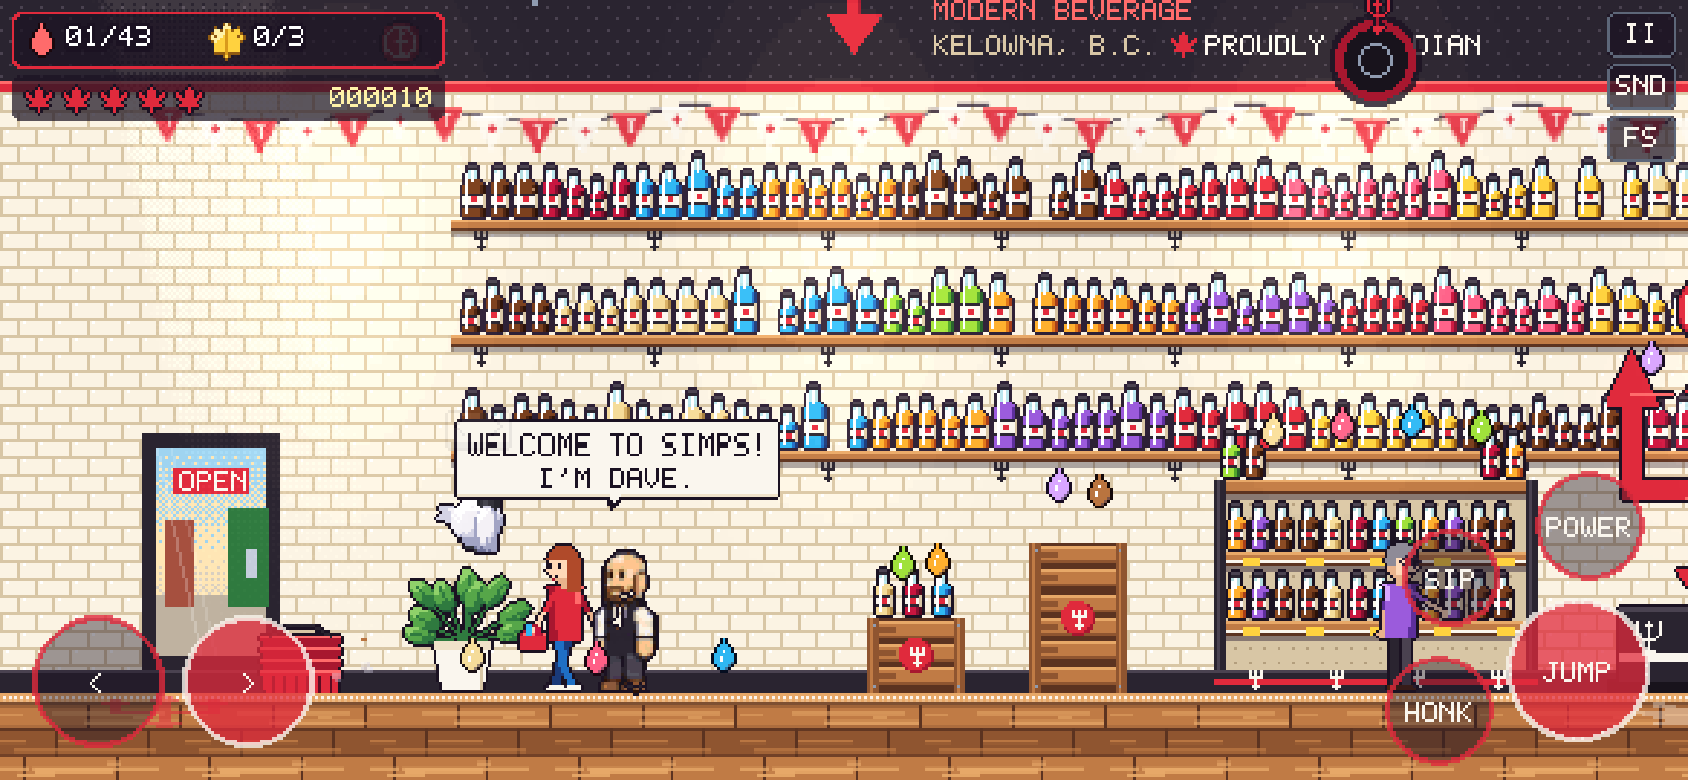
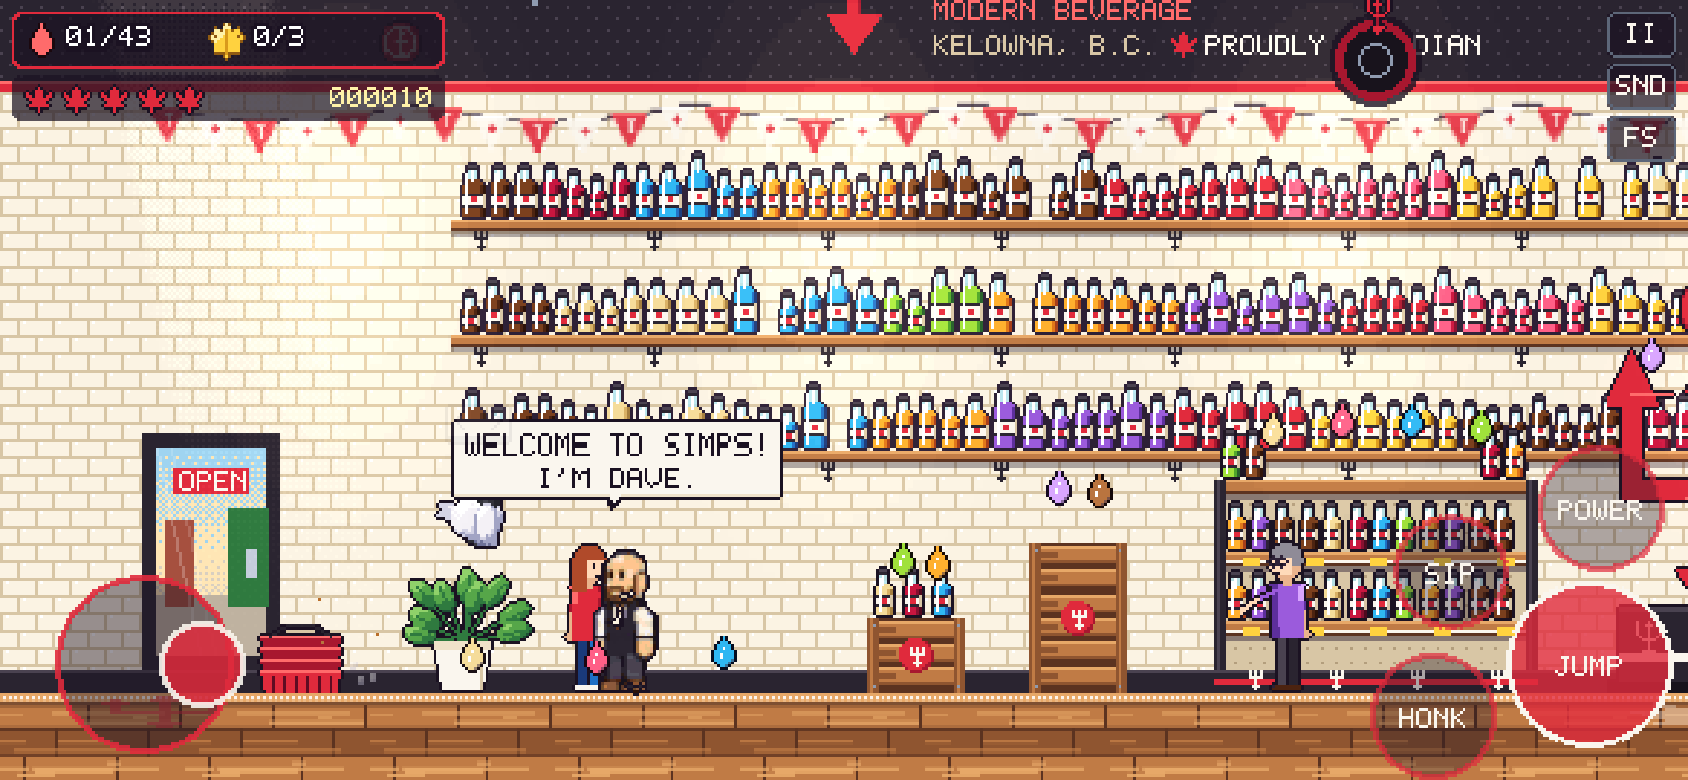
PWA (installable, full screen on iPhone from the home screen) + better phone controls
- manifest (fullscreen, landscape), icons, apple-touch-icon, offline service worker (network-first)
- iPhone 'Share > Add to Home Screen' hint, Android INSTALL button; only on real https sites
- scripts/single-file.py also builds release/pwa/ + release/goose-pwa-netlify.zip for Netlify Drop
- Controls: drag stick anywhere in the left third (left/right/up/down), bigger action buttons,
  each finger presses only the nearest button (generous reach), no iOS long-press callouts

Claude-Session: https://claude.ai/code/session_019Ne5GHyCBQvH5tGTV4PYB6

diff --git a/simps-goose/src/scenes/UIScene.ts b/simps-goose/src/scenes/UIScene.ts
@@ -29,6 +29,7 @@ export class UIScene extends Phaser.Scene {
   menu: Phaser.GameObjects.Container | null = null; menuItems: MenuItem[] = []; menuSel = 0; menuKind: 'pause' | 'end' | null = null;
   toastQ: [string, number, string?][] = []; toastBusy = false;
   touchBtns: TouchBtn[] = []; touchOn = false;
+  stickG?: Phaser.GameObjects.Graphics; stickHint?: Phaser.GameObjects.BitmapText; stick: { x: number; y: number } | null = null; stickKnob = { x: 0, y: 0 }; stickHome = { x: 50, y: 230 }; stickWas = false;
   muteBtn!: Phaser.GameObjects.BitmapText;
   dropTotal = 0; leafTotal = 3;
   ended = false;
@@ -43,7 +44,7 @@ export class UIScene extends Phaser.Scene {
   setAbilities(o: { ph: boolean; db: boolean; sb: boolean }) { [o.ph, o.db, o.sb].forEach((v, i) => { const a = this.abil[i]; if (a && a.visible !== v) { a.setVisible(v); if (v) this.pulse(a); } }); }
 
   create() {
-    this.pickerCards = []; this.touchBtns = []; this.menu = null; this.menuKind = null; this.toastQ = []; this.toastBusy = false; this.ended = false; this.hearts = []; this.bossBar = null; this.clearCard = null;
+    this.pickerCards = []; this.touchBtns = []; this.stick = null; this.stickG = undefined; this.stickHint = undefined; this.menu = null; this.menuKind = null; this.toastQ = []; this.toastBusy = false; this.ended = false; this.hearts = []; this.bossBar = null; this.clearCard = null;
     this.input.addPointer(4);
     this.buildHud();
     this.buildPicker();
@@ -322,7 +323,7 @@ export class UIScene extends Phaser.Scene {
     this.ended = true;
     this.picker.setVisible(false);
     this.tweens.add({ targets: [this.hud], alpha: 0, duration: 400 });
-    this.touchBtns.forEach((b) => b.g?.setVisible(false));
+    this.touchBtns.forEach((b) => b.g?.setVisible(false)); this.stickG?.setVisible(false); this.stickHint?.setVisible(false);
     // classic freeze-frame arrow banner
     const c = this.add.container(-260, 214).setDepth(25);
     const g = this.add.graphics();
@@ -343,8 +344,11 @@ export class UIScene extends Phaser.Scene {
 
   // ------------------------------------------------------------ touch
   buildTouch() {
-    const defs: [Action, string, number][] = [['left', '<', 22], ['right', '>', 22], ['jump', 'JUMP', 24], ['honk', 'HONK', 18], ['ability', 'POWER', 18], ['interact', 'SIP', 16]];
+    // right thumb: action buttons (bigger + more forgiving than before). left thumb: a drag stick.
+    const defs: [Action, string, number][] = [['jump', 'JUMP', 28], ['honk', 'HONK', 21], ['ability', 'POWER', 21], ['interact', 'SIP', 19]];
     for (const [a, label, r] of defs) this.touchBtns.push({ a, label, r, x: 0, y: 0, down: false });
+    this.stickG = this.add.graphics().setDepth(5);
+    this.stickHint = txt(this, 0, 0, '< >', { align: 'center', outline: false, color: C.wht }).setDepth(6).setAlpha(0.6);
     this.layoutTouch();
   }
   /** Pin the HUD to the screen edges (wide phones): left block left, right block right. */
@@ -355,41 +359,74 @@ export class UIScene extends Phaser.Scene {
   }
   layoutTouch() {
     if (!this.touchOn) return;
-    const pos: Record<string, [number, number]> = { left: [34, 236], right: [86, 236], jump: [442, 232], honk: [394, 246], ability: [446, 182], interact: [398, 200] };
-    const ox = VIEW.ox; // wide screens: d-pad hugs the left edge, action buttons the right edge
+    const pos: Record<string, [number, number]> = { jump: [446, 230], honk: [392, 248], ability: [450, 176], interact: [398, 198] };
+    const ox = VIEW.ox; // wide screens: stick hugs the left edge, action buttons the right edge
     for (const b of this.touchBtns) {
       [b.x, b.y] = pos[b.a];
-      b.x += b.a === 'left' || b.a === 'right' ? -ox : ox;
-      b.g?.destroy();
+      b.x += ox;
+      b.g?.destroy(); (b.g?.getData('t') as Phaser.GameObjects.BitmapText | undefined)?.destroy();
       b.g = this.add.graphics().setDepth(5);
       const t = txt(this, b.x, b.y - 4, b.label, { align: 'center', outline: false, color: C.wht });
-      t.setDepth(6).setAlpha(0.85);
+      t.setDepth(6).setAlpha(0.9);
       b.g.setData('t', t);
     }
+    this.stickHome = { x: 50 - ox, y: 230 };
     this.drawTouch();
   }
   drawTouch() {
     for (const b of this.touchBtns) {
       if (!b.g) continue;
-      b.g.clear().fillStyle(b.down ? C.red1 : C.ink, b.down ? 0.75 : 0.42).fillCircle(b.x, b.y, b.r).lineStyle(2, b.down ? C.wht : C.red1, 0.8).strokeCircle(b.x, b.y, b.r);
+      b.g.clear().fillStyle(b.down ? C.red1 : C.ink, b.down ? 0.8 : 0.35).fillCircle(b.x, b.y, b.r).lineStyle(2, b.down ? C.wht : C.red1, b.down ? 1 : 0.7).strokeCircle(b.x, b.y, b.r);
     }
+    // the stick: a base ring where the thumb landed (or its resting spot) + a knob that follows the drag
+    const g = this.stickG; if (!g) return;
+    const base = this.stick ?? this.stickHome;
+    const k = this.stick ? this.stickKnob : base;
+    g.clear().fillStyle(C.ink, this.stick ? 0.45 : 0.3).fillCircle(base.x, base.y, 30).lineStyle(2, C.red1, this.stick ? 0.9 : 0.55).strokeCircle(base.x, base.y, 30);
+    g.fillStyle(this.stick ? C.red1 : C.ink, this.stick ? 0.85 : 0.5).fillCircle(k.x, k.y, 14).lineStyle(2, C.wht, this.stick ? 0.9 : 0.4).strokeCircle(k.x, k.y, 14);
+    this.stickHint?.setPosition(base.x, base.y - 4).setVisible(!this.stick);
   }
   updateTouch() {
     if (!this.touchOn || this.ended) return;
     const dom = portraitPad();
     this.touchBtns.forEach((b) => { b.g?.setVisible(!dom); (b.g?.getData('t') as Phaser.GameObjects.BitmapText | undefined)?.setVisible(!dom); });
+    this.stickG?.setVisible(!dom); this.stickHint?.setVisible(!dom && !this.stick);
     if (dom) return;
-    const ptrs = this.input.manager.pointers.filter((p) => p.isDown);
-    let changed = false;
+    const cam = this.cameras.main;
     const blocking = !!this.menu || this.picker.visible;
+    const ptrs = blocking ? [] : this.input.manager.pointers.filter((p) => p.isDown);
+    // the left third of the screen (below the HUD) is the stick zone: put a thumb anywhere there and drag
+    const zoneR = 170 - VIEW.ox * 0.2;
+    let stickP: Phaser.Input.Pointer | null = null;
+    for (const p of ptrs) { const d = cam.getWorldPoint(p.downX, p.downY); if (d.x < zoneR && d.y > 64) { stickP = p; break; } }
+    let L = false, R = false, U = false, D = false;
+    if (stickP) {
+      const o = cam.getWorldPoint(stickP.downX, stickP.downY), c = cam.getWorldPoint(stickP.x, stickP.y);
+      const dx = c.x - o.x, dy = c.y - o.y, dist = Math.hypot(dx, dy), m = Math.min(dist, 20) / (dist || 1);
+      this.stick = { x: o.x, y: o.y }; this.stickKnob = { x: o.x + dx * m, y: o.y + dy * m };
+      L = dx < -6; R = dx > 6;
+      U = dy < -16 && Math.abs(dy) > Math.abs(dx) * 0.7; D = dy > 16 && Math.abs(dy) > Math.abs(dx) * 0.7;
+    } else this.stick = null;
+    Controls.setTouch('left', L); Controls.setTouch('right', R); Controls.setTouch('up', U); Controls.setTouch('down', D);
+    // buttons: each finger presses only the NEAREST button within reach (generous margin, no double-presses)
+    const pressed = new Set<TouchBtn>();
+    for (const p of ptrs) {
+      if (p === stickP) continue;
+      const w = cam.getWorldPoint(p.x, p.y);
+      let best: TouchBtn | null = null, bd = 1e9;
+      for (const b of this.touchBtns) { const d = Math.hypot(w.x - b.x, w.y - b.y) - b.r; if (d < 12 && d < bd) { bd = d; best = b; } }
+      if (best) pressed.add(best);
+    }
+    let changed = !!stickP !== this.stickWas; this.stickWas = !!stickP;
     for (const b of this.touchBtns) {
-      const down = !blocking && ptrs.some((p) => { const w = this.cameras.main.getWorldPoint(p.x, p.y); return Math.hypot(w.x - b.x, w.y - b.y) < b.r + 6; });
+      const down = pressed.has(b);
       if (down !== b.down) { b.down = down; changed = true; }
       Controls.setTouch(b.a, down);
       if (b.a === 'interact') Controls.setTouch('confirm', down);
     }
-    if (changed) this.drawTouch();
+    if (changed || stickP) this.drawTouch();
   }
+
 
   update() {
     this.updateTouch();

diff --git a/simps-goose/src/systems/pwa.ts b/simps-goose/src/systems/pwa.ts
@@ -1,0 +1,50 @@
+/**
+ * Installable app (PWA): offline service worker + an install hint.
+ *  - iPhone/iPad Safari: a small banner "Share → Add to Home Screen" (that's the only way iOS gives a
+ *    web game true full screen). Dismissable; never shown once running from the home screen.
+ *  - Android/Chrome: an INSTALL button using the browser's own install prompt.
+ * Only on a real website (https, top-level) — never inside the Claude artifact viewer or the dev server.
+ */
+const ss = (k: string) => { try { return localStorage.getItem(k); } catch { return null; } };
+const set = (k: string, v: string) => { try { localStorage.setItem(k, v); } catch { /* private mode */ } };
+
+export const isInstalled = () => (navigator as Navigator & { standalone?: boolean }).standalone === true
+  || matchMedia('(display-mode: standalone)').matches || matchMedia('(display-mode: fullscreen)').matches;
+
+export function installPwa() {
+  const topLevel = (() => { try { return window.top === window; } catch { return false; } })();
+  const force = new URLSearchParams(location.search).has('pwa'); // test switch for local servers
+  if (!topLevel || (location.protocol !== 'https:' && !force)) return;
+  if ('serviceWorker' in navigator) navigator.serviceWorker.register('./sw.js').catch(() => undefined);
+  if (isInstalled() || ss('goose-install-hint') === 'off') return;
+
+  const css = document.createElement('style');
+  css.textContent = `#install { position: fixed; z-index: 60; left: 50%; bottom: max(10px, env(safe-area-inset-bottom)); transform: translateX(-50%);
+    display: flex; align-items: center; gap: 10px; max-width: calc(100vw - 24px); box-sizing: border-box; padding: 9px 12px; border-radius: 14px;
+    background: rgba(24,19,28,0.95); border: 2px solid #e02a3c; color: #fff; font: bold 13px monospace; }
+    #install button { font: bold 13px monospace; color: #fff; background: #e02a3c; border: 0; border-radius: 10px; padding: 7px 11px; }
+    #install .x { background: transparent; color: #aaa; padding: 4px 6px; }
+    #install svg { flex: none; }`;
+  document.head.appendChild(css);
+  const bar = document.createElement('div'); bar.id = 'install';
+  const close = () => { bar.remove(); set('goose-install-hint', 'off'); };
+  const addX = () => { const x = document.createElement('button'); x.className = 'x'; x.textContent = '✕'; x.setAttribute('aria-label', 'Close'); x.onclick = close; bar.appendChild(x); };
+  const ios = /iP(hone|od|ad)/.test(navigator.userAgent) || (navigator.platform === 'MacIntel' && navigator.maxTouchPoints > 1);
+  if (ios) {
+    // the iOS "share" glyph: a box with an arrow up
+    bar.innerHTML = `<svg width="18" height="22" viewBox="0 0 18 22" fill="none" stroke="#fff" stroke-width="2"><path d="M9 14V2M4 6l5-5 5 5"/><path d="M6 9H2v12h14V9h-4"/></svg>
+      <span>FULL SCREEN: TAP SHARE, THEN <b>ADD TO HOME SCREEN</b></span>`;
+  } else {
+    let prompt: (Event & { prompt: () => void }) | null = null;
+    window.addEventListener('beforeinstallprompt', (e) => {
+      e.preventDefault(); prompt = e as Event & { prompt: () => void };
+      bar.innerHTML = '<span>PLAY FULL SCREEN AS AN APP</span>';
+      const b = document.createElement('button'); b.textContent = 'INSTALL'; b.onclick = () => { prompt?.prompt(); close(); };
+      bar.appendChild(b); addX(); document.body.appendChild(bar);
+    });
+    return;
+  }
+  addX();
+  document.body.appendChild(bar);
+  setTimeout(() => bar.remove(), 20000); // out of the way once play starts
+}

diff --git a/simps-goose/index.html b/simps-goose/index.html
@@ -8,9 +8,12 @@
   <meta name="mobile-web-app-capable" content="yes" />
   <meta name="apple-mobile-web-app-status-bar-style" content="black-translucent" />
   <meta name="apple-mobile-web-app-title" content="Goose!" />
+  <link rel="manifest" href="manifest.webmanifest" />
+  <link rel="apple-touch-icon" href="apple-touch-icon.png" />
+  <link rel="icon" type="image/png" href="icon-192.png" />
   <title>SIMPS: Goose on the Loose!</title>
   <style>
-    html, body { margin: 0; height: 100%; background: #18131c; overflow: hidden; touch-action: none; -webkit-user-select: none; user-select: none; }
+    html, body { margin: 0; height: 100%; background: #18131c; overflow: hidden; touch-action: none; -webkit-user-select: none; user-select: none; -webkit-touch-callout: none; -webkit-tap-highlight-color: transparent; overscroll-behavior: none; }
     #game { position: fixed; inset: env(safe-area-inset-top) env(safe-area-inset-right) env(safe-area-inset-bottom) env(safe-area-inset-left); }
     canvas { image-rendering: pixelated; image-rendering: crisp-edges; }
     #pad { display: none; }

diff --git a/simps-goose/src/main.ts b/simps-goose/src/main.ts
@@ -1,6 +1,7 @@
 import Phaser from 'phaser';
 import { installTouchpad } from './systems/touchpad';
 import { installView, desiredWidth } from './systems/view';
+import { installPwa } from './systems/pwa';
 import { LevelScene } from './levels/LevelScene';
 import { setFullscreenNotifier } from './systems/fullscreen';
 import { BootScene, InputScene } from './scenes/BootScene';
@@ -38,6 +39,7 @@ const game = new Phaser.Game({
 });
 (window as unknown as { __SIMPS: Record<string, unknown> }).__SIMPS.game = game;
 game.events.once('ready', () => installView(game, touchDevice, (s) => s instanceof LevelScene));
+installPwa();
 installTouchpad(() => game.registry.get('touch') === true || ('ontouchstart' in window || navigator.maxTouchPoints > 0));
 for (const ev of ['fullscreenchange', 'webkitfullscreenchange']) document.addEventListener(ev, () => { setTimeout(() => game.scale.refresh(), 60); game.events.emit('fullscreen:change'); });
 setFullscreenNotifier((m, sub) => game.events.emit('hud:toast', m, 0xffc94a, sub));

diff --git a/simps-goose/public/sw.js b/simps-goose/public/sw.js
@@ -1,0 +1,10 @@
+// Offline cache for the installed app: the whole game is one HTML file, so cache it + the icons.
+const CACHE = 'goose-v1';
+const FILES = ['./', './index.html', './manifest.webmanifest', './icon-192.png', './icon-512.png', './apple-touch-icon.png'];
+self.addEventListener('install', (e) => { e.waitUntil(caches.open(CACHE).then((c) => c.addAll(FILES)).catch(() => {})); self.skipWaiting(); });
+self.addEventListener('activate', (e) => { e.waitUntil(caches.keys().then((ks) => Promise.all(ks.filter((k) => k !== CACHE).map((k) => caches.delete(k))))); self.clients.claim(); });
+// network first (so an updated game shows up), cache when offline
+self.addEventListener('fetch', (e) => {
+  if (e.request.method !== 'GET' || new URL(e.request.url).origin !== location.origin) return;
+  e.respondWith(fetch(e.request).then((r) => { const copy = r.clone(); caches.open(CACHE).then((c) => c.put(e.request, copy)); return r; }).catch(() => caches.match(e.request).then((r) => r || caches.match('./'))));
+});

diff --git a/simps-goose/scripts/single-file.py b/simps-goose/scripts/single-file.py
@@ -16,3 +16,15 @@ body = re.search(r'<body>(.*?)</body>', html, re.S).group(1)
 body = re.sub(r'<script type="module" crossorigin src="[^"]+"></script>', '', body).strip()
 open('release/goose-artifact.html', 'w').write('<title>Goose on the Loose</title>\n' + style + '\n' + body + '\n<script type="module">' + js + '</script>\n')
 print('play.html', len(page) // 1024, 'KB; goose-artifact.html written')
+
+# installable app folder for Netlify / any https host: drag release/pwa (or the zip) onto Netlify Drop
+import shutil, zipfile
+pwa = 'release/pwa'
+shutil.rmtree(pwa, ignore_errors=True); os.makedirs(pwa)
+open(os.path.join(pwa, 'index.html'), 'w').write(page)
+for f in ['manifest.webmanifest', 'sw.js', 'apple-touch-icon.png', 'icon-192.png', 'icon-512.png', 'icon-maskable-512.png']:
+    shutil.copy(os.path.join('dist', f), os.path.join(pwa, f))
+open(os.path.join(pwa, '_headers'), 'w').write("/sw.js\n  Cache-Control: no-cache\n/index.html\n  Cache-Control: no-cache\n/manifest.webmanifest\n  Content-Type: application/manifest+json\n")
+with zipfile.ZipFile('release/goose-pwa-netlify.zip', 'w', zipfile.ZIP_DEFLATED) as z:
+    for f in sorted(os.listdir(pwa)): z.write(os.path.join(pwa, f), f)
+print('pwa folder + release/goose-pwa-netlify.zip written')
